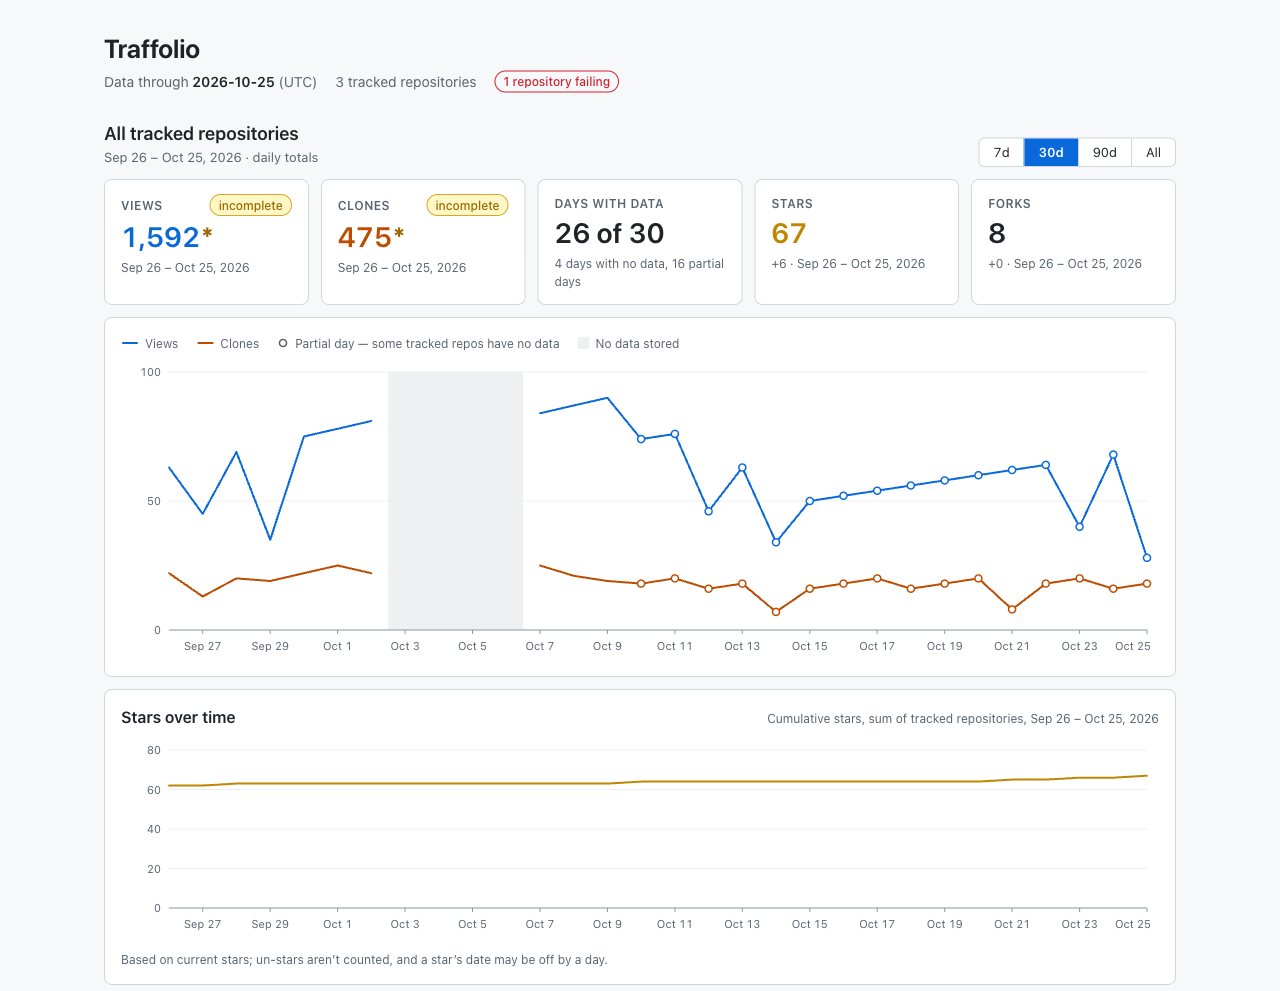
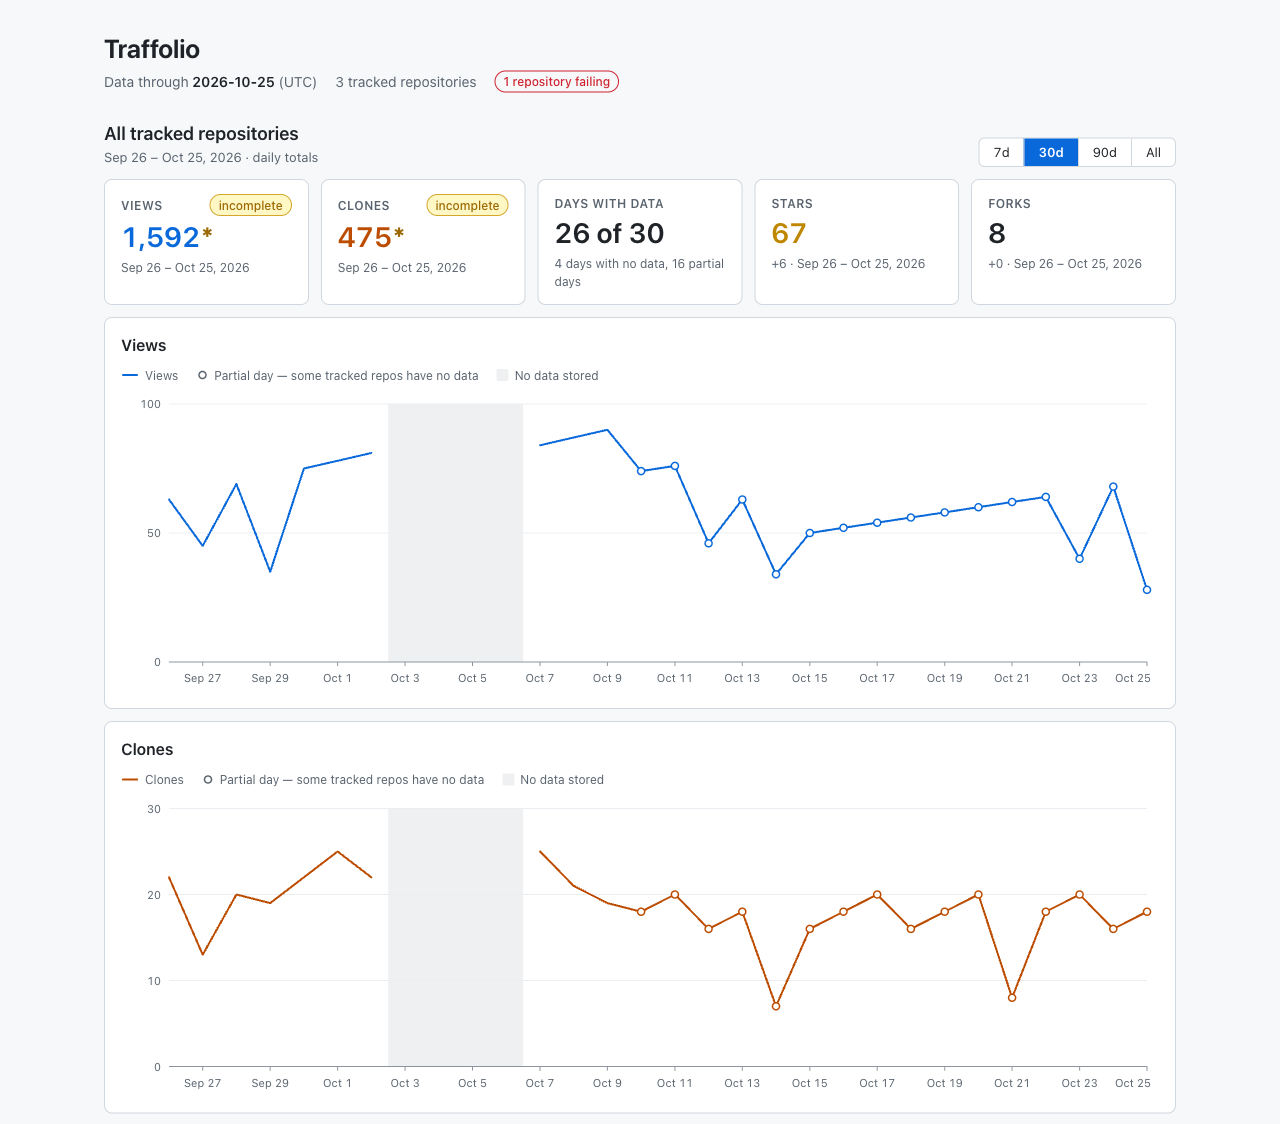
docs: describe the per-repository pages and the split views/clones charts

diff --git a/README.md b/README.md
@@ -5,7 +5,7 @@
 
 GitHub's Traffic API only returns the last 14 days of views and clones. Traffolio runs on GitHub Actions, collects views and clones for your repositories every day, and stores the history as JSON in your own **private** repository, with a dashboard rendered right here in this README.
 
-![Traffolio's local dashboard with sample data: views and clones over 30 days, summary cards and star history](docs/dashboard.png)
+![Traffolio's local dashboard with sample data: Views and Clones charts over 30 days, summary cards and star history](docs/dashboard.png)
 
 *The [local dashboard](#local-dashboard), shown with sample data. The same dashboard is [live for the demo instance](https://zeikar.dev/traffolio-demo/), published with [GitHub Pages](#github-pages-dashboard); the README section below is live too.*
 
@@ -16,7 +16,8 @@ GitHub's Traffic API only returns the last 14 days of views and clones. Traffoli
 
 Live example: daily traffic of [zeikar/traffolio](https://github.com/zeikar/traffolio), collected by Traffolio in public mode in [zeikar/traffolio-demo](https://github.com/zeikar/traffolio-demo).
 
-![Live traffic of zeikar/traffolio](https://raw.githubusercontent.com/zeikar/traffolio-demo/main/assets/traffic.svg)
+![Live views of zeikar/traffolio](https://raw.githubusercontent.com/zeikar/traffolio-demo/main/assets/views.svg)
+![Live clones of zeikar/traffolio](https://raw.githubusercontent.com/zeikar/traffolio-demo/main/assets/clones.svg)
 
 [See a full sample section (sample data)](docs/demo/README-section.md)
 <!-- TRAFFOLIO:END -->
@@ -39,7 +40,7 @@ It is not:
 2. It lists your owned repositories, applies the filters in `traffolio.config.yml`, and fetches the latest 14 days of daily views and clones for each one.
 3. The results are merged into JSON files under `data/`. Each day is overwritten (upserted) by repository ID and UTC date, so re-running never double-counts.
 4. For the same repositories it also records star and fork history, a snapshot of the top referrers and popular pages, and release download counts (see [Data](#data)). These extras run after the traffic and never change how the traffic part of the run is judged.
-5. The README dashboard (between the `TRAFFOLIO` markers), `assets/traffic.svg` and the per-repository trend images in `assets/sparklines/` are regenerated from that JSON. Only that marked block is rewritten; the rest of this README is yours.
+5. The README dashboard (between the `TRAFFOLIO` markers), `assets/views.svg`, `assets/clones.svg`, the trend images in `assets/sparklines/`, and one page per repository in `repos/<repo_id>.md` with its charts in `assets/repos/<repo_id>/` are regenerated from that JSON. Only that marked block is rewritten; the rest of this README is yours.
 6. If any file changed, the workflow commits it with `GITHUB_TOKEN`. If nothing changed, there is no commit.
 
 ## Setup
@@ -81,7 +82,7 @@ The default `GITHUB_TOKEN` cannot read other repositories' traffic, so it cannot
 
 ## Local dashboard
 
-The README shows a summary. For per-repository charts, period switching (7 / 30 / 90 days / all) and sorting, generate a local dashboard from a clone of your Traffolio repository:
+The README shows a summary. For a daily Views chart and a daily Clones chart (with unique visitors and cloners when one repository is selected), period switching (7 / 30 / 90 days / all) and sorting, generate a local dashboard from a clone of your Traffolio repository:
 
 ```sh
 git clone <your Traffolio repository> && cd <it>
@@ -100,7 +101,7 @@ The same collection the workflow runs can be run from your clone, for example wh
 ```sh
 npm run build
 TRAFFIC_TOKEN=<token> GITHUB_TOKEN=<token> GITHUB_REPOSITORY=<you>/<your Traffolio repo> node dist/cli/collect.js
-git add -A -- data assets README.md && git commit -m "chore(data): update traffic (local run)" && git push
+git add -A -- data assets repos README.md && git commit -m "chore(data): update traffic (local run)" && git push
 ```
 
 `GITHUB_TOKEN` here only needs to read your Traffolio repository's metadata (the fail-closed visibility check); your fine-grained `TRAFFIC_TOKEN` works if it covers that repository. Run it at least every 14 days to avoid gaps.
@@ -170,8 +171,10 @@ data/
   growth/<repo_id>.json      stars and forks per date
   referrers/<repo_id>/YYYY-MM.json   top referrers and pages, one snapshot per run date
   releases/<repo_id>.json    cumulative release downloads per run date (only repos with release assets)
-assets/traffic.svg           generated README chart
-assets/sparklines/<repo_id>.svg   30-day trend shown in the README table
+assets/views.svg, clones.svg generated README charts
+assets/sparklines/<repo_id>.svg   30-day views trend shown in the README table
+assets/repos/<repo_id>/views.svg, clones.svg, stars.svg   90-day charts of the repository page
+repos/<repo_id>.md           per-repository page (totals, charts, referrers, releases)
 ```
 
 Per-month file shape:
@@ -190,7 +193,7 @@ Per-month file shape:
 - **Present, missing, not tracked yet.** A date key in `days` means it was collected, even when every value is `0`. A repository's tracking starts at its earliest stored date. After that, a date without a key is missing: it was never collected (failed run, no permission, or a gap longer than 14 days). Before it, the date is not tracked yet: windows start no earlier than the first stored date, so a 30-day window over a repository first collected 14 days ago covers those 14 days, with no `*`. A tracked repository with no stored days at all (its first collection failed) shows `—` and marks every tracked date of the totals as partial. Missing days are never summed as zero or interpolated; the dashboard shows them as `—`.
 - **Data-through date, not run date.** The Traffic API lags by one to two days, and its 14-day window ends on different days for different repositories. "Data through" is the last date that every repository collected in the latest run has data for, so the newest day shown is complete; a later day from a faster repository is stored and appears on a following run.
 - **UTC only.** All dates and periods are UTC. There is no timezone setting.
-- **Events, not people.** Totals are event counts summed across the tracked repositories. Daily unique counts are stored but are not added across days or repositories, so there is no "monthly unique visitors". CI checkouts of your repositories can count as clones.
+- **Events, not people.** Totals are event counts summed across the tracked repositories. Daily unique counts are stored but are not added across days or repositories, so there is no "monthly unique visitors". The repository pages and the dashboard show daily unique counts as separate lines but never sum them. CI checkouts of your repositories can count as clones.
 - **Star and fork counts in `index.json` are snapshots** taken at collection time. `growth/<repo_id>.json` holds the history: the number of stars and forks per UTC date, fetched in full each run. Stars come from GitHub's weekly star history (stars per day of each week); GitHub's day boundaries aren't UTC, so a star can be counted on an adjacent day, while weekly totals are reliable. Forks come from the fork list (`created_at`). A listing GitHub refuses to page through makes that extra fail and the run partial (exit 2), with the previous history kept. It is retroactive back to the repository's start, but covers only current stars and existing forks: removed stars and deleted forks are absent, so past totals can be slightly lower than they really were. Only dates are stored, never usernames.
 - **Referrer snapshots are 14-day aggregates.** GitHub reports only each repository's top 10 referrers and top 10 pages over the last 14 days. Each run stores that list under its run date in `referrers/<repo_id>/YYYY-MM.json` (an empty list is a valid snapshot). These are rolling 14-day totals as of each run date, not daily values, so don't add snapshots together. The README's top-referrer table sums the latest run date's snapshots across repositories (counts only: uniques cannot be added across repositories).
 - **Release downloads are cumulative.** `releases/<repo_id>.json` stores, per run date, each published release's total asset downloads so far; downloads on a day are the difference between consecutive snapshots. Drafts are ignored, prereleases count. Updater metadata, signatures and checksum files, matched by name (`latest.yml`, `latest-*.yml`, `latest.json`, `*.blockmap`, `*.sig`, `*.asc`, `*.minisig`, `*.sha256`, `checksums.txt`, `SHA256SUMS`, ...) are not counted, while other `.json`/`.yaml` assets are, and GitHub has no counts for source-code archives, so those, and downloads from npm or other registries, are not included. A repository gets this file once it has at least one counted asset; after that, every successful run appends a snapshot, even when all counted assets were later deleted. Metadata of deleted releases is kept.
@@ -226,12 +229,8 @@ Merge the latest Traffolio into your repository, keeping your own config, README
 git remote add traffolio https://github.com/zeikar/traffolio   # skip if already added
 git fetch traffolio
 git merge --no-commit --no-ff traffolio/main
-git checkout HEAD -- traffolio.config.yml README.md data assets
-git commit -m "Update Traffolio"
-git push
+(for p in traffolio.config.yml README.md data assets repos; do if git cat-file -e "HEAD:$p" 2>/dev/null; then git checkout HEAD -- "$p" || exit 1; fi; done) && git commit -m "Update Traffolio" && git push
 ```
-
-(`assets` exists after your first collection; drop it from the line before that.)
 
 A repository made from the template shares no history with Traffolio until its first update. For that one, in place of the merge line, run these two, which replace your files with Traffolio's before the line after them restores your own. Commit or stash your changes first: unlike a merge, they overwrite uncommitted work without asking.
 

diff --git a/CHANGELOG.md b/CHANGELOG.md
@@ -11,6 +11,12 @@ To update an existing Traffolio repository, see [Updating Traffolio](README.md#u
 - `pages: true` publishes the dashboard to GitHub Pages on each run, from the data the run committed. It only takes effect in a public repository with `public_mode: true`; set the repository's Pages source to GitHub Actions first (see [GitHub Pages dashboard](README.md#github-pages-dashboard)).
 - `npm run dashboard -- --public` builds that page locally: no local path in the header, and it refuses data that lists a private repository.
 
+### Output
+
+- Every repository in `data/index.json` gets a page, `repos/<repo_id>.md`, linked from the README table: totals, 90-day Views, Clones and Stars charts (`assets/repos/<repo_id>/`), and the latest referrers, pages and release downloads when stored. Repositories that are no longer tracked keep a page too.
+- The README chart is now two images, `assets/views.svg` and `assets/clones.svg`. The table sparkline shows views only, and the local dashboard shows a Views chart and a Clones chart (with unique lines when one repository is selected).
+- `assets/traffic.svg` is no longer updated: after updating, run `git rm assets/traffic.svg` and commit. If your README outside the markers links to it, point it at `assets/views.svg`.
+
 ## [0.1.0] - 2026-11-01
 
 First release.
